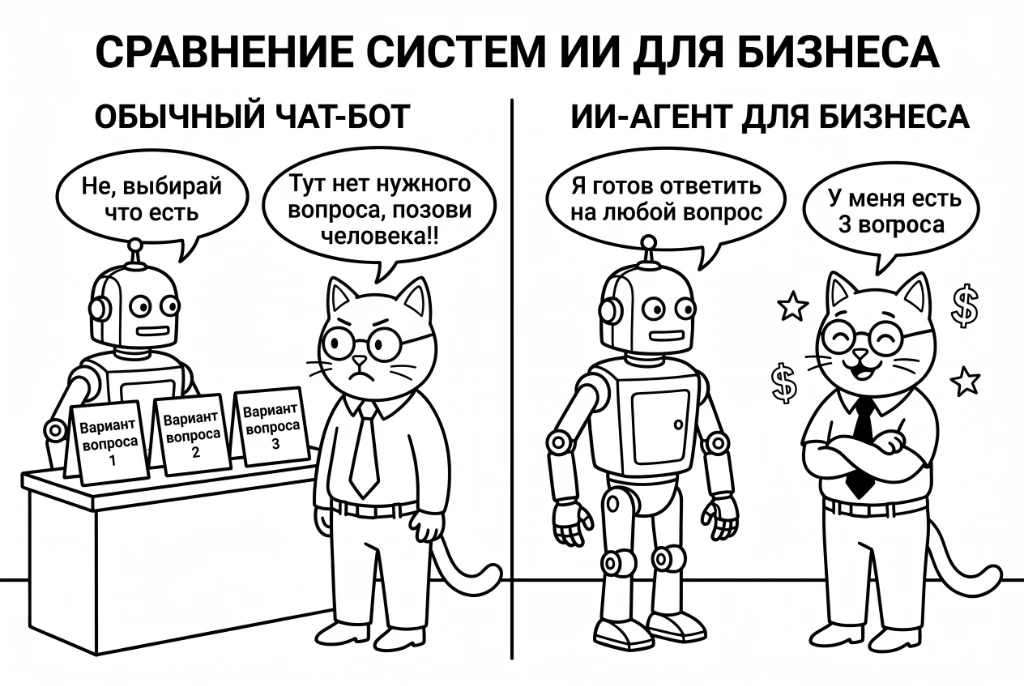
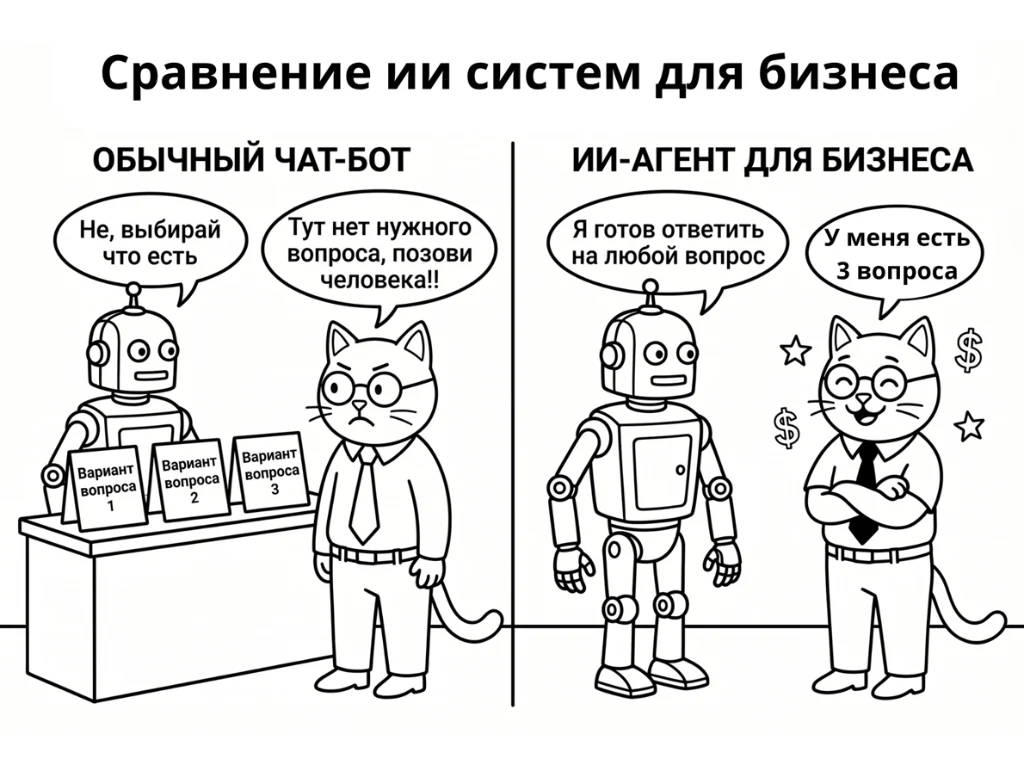
fix(blog): update comic image with typo fix and set new thematic preview cover for chto-takoe-ii-agent-dlya-biznesa

Changed region(s): [[0.0, 0.0306, 1.0, 0.9796]]

diff --git a/src/data/articles.ts b/src/data/articles.ts
@@ -23,7 +23,7 @@ export const ARTICLES: Article[] = [
     "date": "2026-08-11",
     "readTime": "10 мин",
     "category": "Архитектура & Стек",
-    "image": "/blog/cat-sales.webp",
+    "image": "/blog/cat-bot-vs-agent-cover.webp",
     "author": {
       "name": "Алексей Самарцев",
       "role": "Основатель Samartsev AI",
